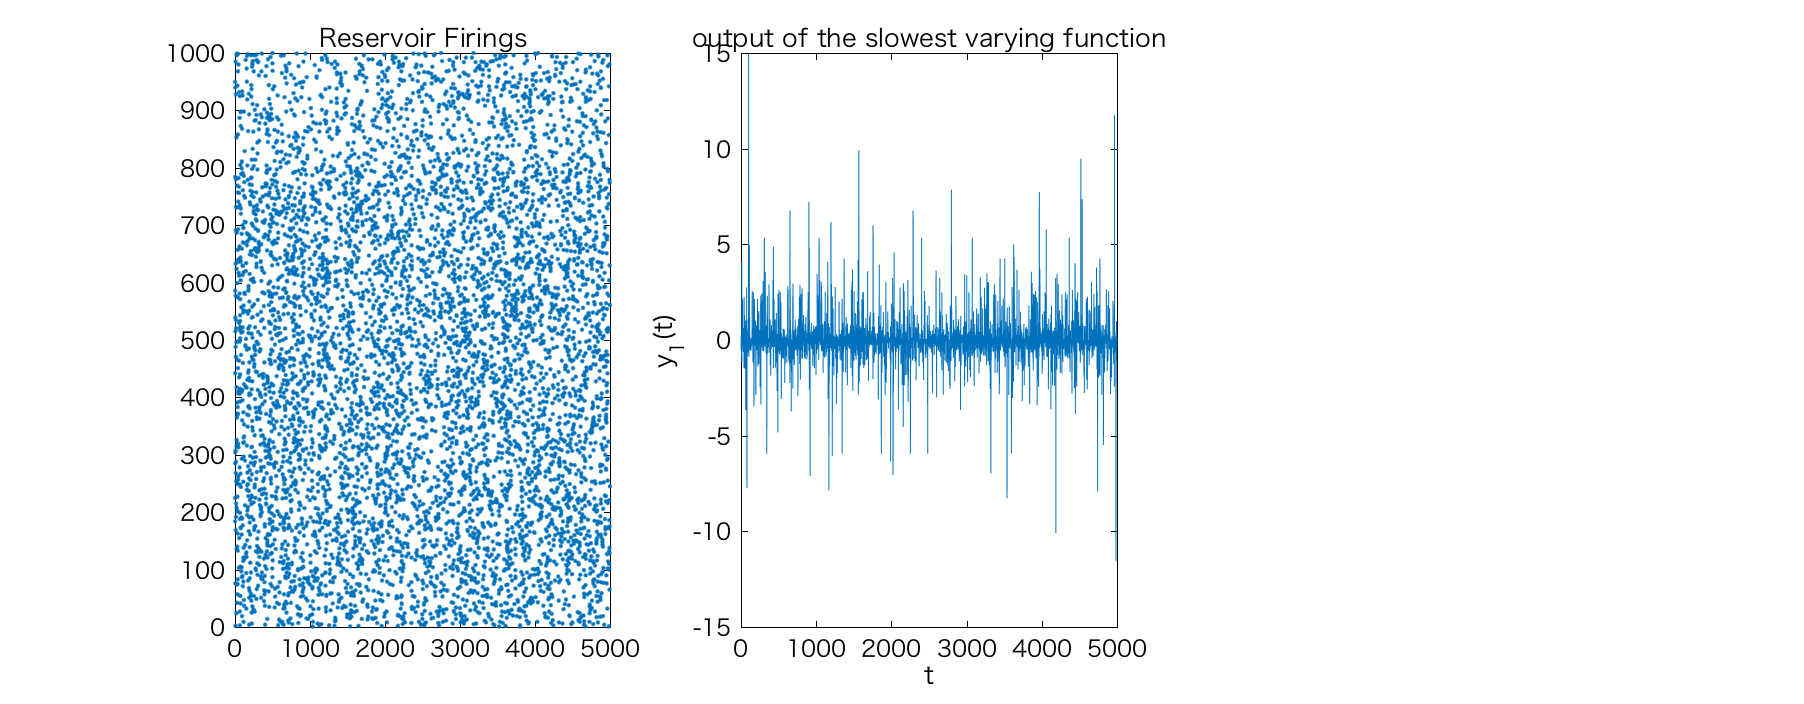
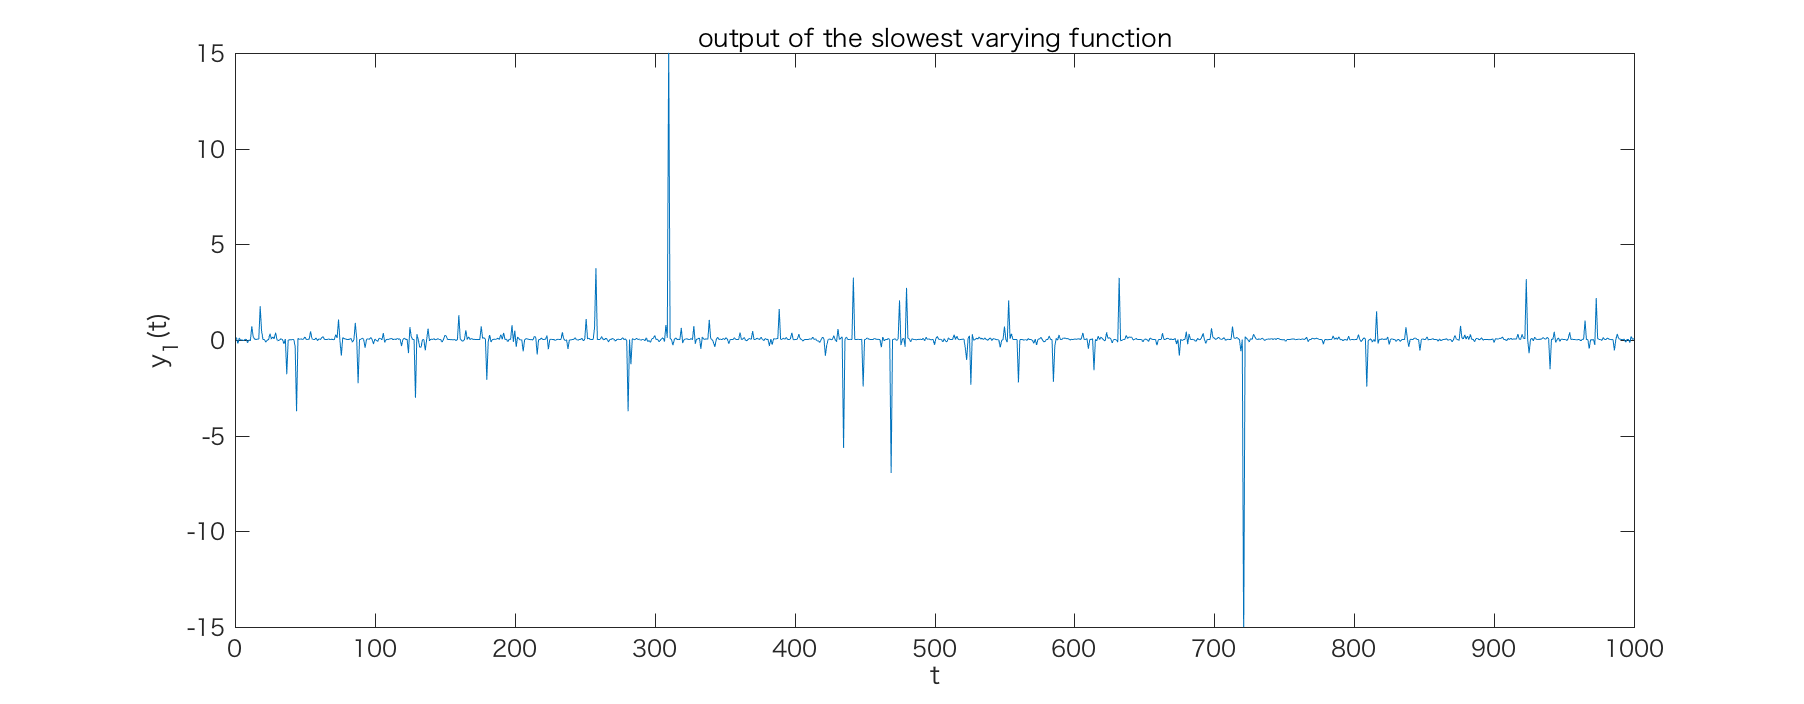
create firingsに置いて過去のoutputを消すように変更 nofeedbackでsfaの図の表示方法を変更xlim[0.1000]

diff --git a/nofeedback/sfa/script_sfa.m b/nofeedback/sfa/script_sfa.m
@@ -1,8 +1,8 @@
 %initialization
 global d k yoke STDP outdir p dim 
+!rm -r output/
 
-
-d=1;    %Iterate number
+d=5;    %Iterate number
 yoke=['NY'];   %Yoked or NY
 STDP=['STDP'];
 id=['170222'];
@@ -10,6 +10,8 @@ feedbacktime=1;
 iterate=2000;
 speinplate=0.5;
 debug=1;
+simutime=10000;   %iterate of simulation when create plot
+
 
 %Create mean file
 outdir=['output'];
@@ -30,8 +32,8 @@ for p=[0.05]
   mean_kiyo=[];
    for k=1:d
         %conduct sfa
-           display(['../firing_data/','p=',num2str(p),'_',yoke,'_',STDP,'/p=',num2str(p),'_',yoke,'_',STDP,'babble_daspnet_firings_',num2str(k),'_',id,'_',num2str(iterate),'_reinforce_100_4_',yoke,'_1_',num2str(feedbacktime),'_',num2str(p),'_',num2str(speinplate),'_',STDP,'_.txt']);
-           [y]=sfa_normal(['../firing_data/','p=',num2str(p),'_',yoke,'_',STDP,'/p=',num2str(p),'_',yoke,'_',STDP,'babble_daspnet_firings_',num2str(k),'_',id,'_',num2str(iterate),'_reinforce_100_4_',yoke,'_1_',num2str(feedbacktime),'_',num2str(p),'_',num2str(speinplate),'_',STDP,'_.txt']);
+           display(['../firing_data/','p=',num2str(p),'_',yoke,'_',STDP,'/p=',num2str(p),'_',yoke,'_',STDP,'babble_daspnet_firings_',num2str(k),'_',id,'_',num2str(iterate),'_reinforce_100_4_',yoke,'_1_',num2str(feedbacktime),'_',num2str(p),'_',num2str(speinplate),'_',STDP,'_',num2str(simutime),'.txt']);
+           [y]=sfa_normal(['../firing_data/','p=',num2str(p),'_',yoke,'_',STDP,'/p=',num2str(p),'_',yoke,'_',STDP,'babble_daspnet_firings_',num2str(k),'_',id,'_',num2str(iterate),'_reinforce_100_4_',yoke,'_1_',num2str(feedbacktime),'_',num2str(p),'_',num2str(speinplate),'_',STDP,'_',num2str(simutime),'.txt']);
            
    
    end
@@ -58,8 +60,8 @@ for p=[0.05]
   mean_kiyo=[];
    for k=1:d
         %conduct sfa
-           display(['../firing_data/','p=',num2str(p),'_',yoke,'_',STDP,'/p=',num2str(p),'_',yoke,'_',STDP,'babble_daspnet_firings_',num2str(k),'_',id,'_',num2str(iterate),'_reinforce_100_4_',yoke,'_1_',num2str(feedbacktime),'_',num2str(p),'_',num2str(speinplate),'_',STDP,'_.txt']);
-           [y]=sfa_normal(['../firing_data/','p=',num2str(p),'_',yoke,'_',STDP,'/p=',num2str(p),'_',yoke,'_',STDP,'babble_daspnet_firings_',num2str(k),'_',id,'_',num2str(iterate),'_reinforce_100_4_',yoke,'_1_',num2str(feedbacktime),'_',num2str(p),'_',num2str(speinplate),'_',STDP,'_.txt']);
+           display(['../firing_data/','p=',num2str(p),'_',yoke,'_',STDP,'/p=',num2str(p),'_',yoke,'_',STDP,'babble_daspnet_firings_',num2str(k),'_',id,'_',num2str(iterate),'_reinforce_100_4_',yoke,'_1_',num2str(feedbacktime),'_',num2str(p),'_',num2str(speinplate),'_',STDP,'_',num2str(simutime),'.txt']);
+           [y]=sfa_normal(['../firing_data/','p=',num2str(p),'_',yoke,'_',STDP,'/p=',num2str(p),'_',yoke,'_',STDP,'babble_daspnet_firings_',num2str(k),'_',id,'_',num2str(iterate),'_reinforce_100_4_',yoke,'_1_',num2str(feedbacktime),'_',num2str(p),'_',num2str(speinplate),'_',STDP,'_',num2str(simutime),'.txt']);
            
    
    end
@@ -84,8 +86,8 @@ for p=[0.05]
   mean_kiyo=[];
    for k=1:d
         %conduct sfa
-           display(['../firing_data/','p=',num2str(p),'_',yoke,'_',STDP,'/p=',num2str(p),'_',yoke,'_',STDP,'babble_daspnet_firings_',num2str(k),'_',id,'_',num2str(iterate),'_reinforce_100_4_',yoke,'_1_',num2str(feedbacktime),'_',num2str(p),'_',num2str(speinplate),'_',STDP,'_.txt']);
-           [y]=sfa_normal(['../firing_data/','p=',num2str(p),'_',yoke,'_',STDP,'/p=',num2str(p),'_',yoke,'_',STDP,'babble_daspnet_firings_',num2str(k),'_',id,'_',num2str(iterate),'_reinforce_100_4_',yoke,'_1_',num2str(feedbacktime),'_',num2str(p),'_',num2str(speinplate),'_',STDP,'_.txt']);
+           display(['../firing_data/','p=',num2str(p),'_',yoke,'_',STDP,'/p=',num2str(p),'_',yoke,'_',STDP,'babble_daspnet_firings_',num2str(k),'_',id,'_',num2str(iterate),'_reinforce_100_4_',yoke,'_1_',num2str(feedbacktime),'_',num2str(p),'_',num2str(speinplate),'_',STDP,'_',num2str(simutime),'.txt']);
+           [y]=sfa_normal(['../firing_data/','p=',num2str(p),'_',yoke,'_',STDP,'/p=',num2str(p),'_',yoke,'_',STDP,'babble_daspnet_firings_',num2str(k),'_',id,'_',num2str(iterate),'_reinforce_100_4_',yoke,'_1_',num2str(feedbacktime),'_',num2str(p),'_',num2str(speinplate),'_',STDP,'_',num2str(simutime),'.txt']);
            
    
    end
@@ -111,8 +113,8 @@ for p=[0.05]
   mean_kiyo=[];
    for k=1:d
         %conduct sfa
-           display(['../firing_data/','p=',num2str(p),'_',yoke,'_',STDP,'/p=',num2str(p),'_',yoke,'_',STDP,'babble_daspnet_firings_',num2str(k),'_',id,'_',num2str(iterate),'_reinforce_100_4_',yoke,'_1_',num2str(feedbacktime),'_',num2str(p),'_',num2str(speinplate),'_',STDP,'_.txt']);
-           [y]=sfa_normal(['../firing_data/','p=',num2str(p),'_',yoke,'_',STDP,'/p=',num2str(p),'_',yoke,'_',STDP,'babble_daspnet_firings_',num2str(k),'_',id,'_',num2str(iterate),'_reinforce_100_4_',yoke,'_1_',num2str(feedbacktime),'_',num2str(p),'_',num2str(speinplate),'_',STDP,'_.txt']);
+           display(['../firing_data/','p=',num2str(p),'_',yoke,'_',STDP,'/p=',num2str(p),'_',yoke,'_',STDP,'babble_daspnet_firings_',num2str(k),'_',id,'_',num2str(iterate),'_reinforce_100_4_',yoke,'_1_',num2str(feedbacktime),'_',num2str(p),'_',num2str(speinplate),'_',STDP,'_',num2str(simutime),'.txt']);
+           [y]=sfa_normal(['../firing_data/','p=',num2str(p),'_',yoke,'_',STDP,'/p=',num2str(p),'_',yoke,'_',STDP,'babble_daspnet_firings_',num2str(k),'_',id,'_',num2str(iterate),'_reinforce_100_4_',yoke,'_1_',num2str(feedbacktime),'_',num2str(p),'_',num2str(speinplate),'_',STDP,'_',num2str(simutime),'.txt']);
            
    
    end
@@ -123,5 +125,8 @@ for p=[0.05]
  close all
 end
 %%%%%%%%%%%%%%%%%%%%%%%%%%%%%%%
+
+!mkdir output/png
+!find ./output/ -maxdepth 4 -name '*.png' | xargs -J % cp % ./output/png/
 
 

diff --git a/nofeedback/sfa/sfa_normal.m b/nofeedback/sfa/sfa_normal.m
@@ -42,10 +42,10 @@ Firings=Firings.'; %invert to caliculate
 
 % plot the input signal
 
-subplot(1,3,1)
-plot(firings(:,2),firings(:,3),'.'); % Plot all the neurons'' spikes
-title('Reservoir Firings', 'fontweight','bold');
-axis([0 5000 0 1000]);
+%subplot(1,3,1)
+%plot(firings(:,2),firings(:,3),'.'); % Plot all the neurons'' spikes
+%title('Reservoir Firings', 'fontweight','bold');
+%axis([0 5000 0 1000]);
 
 
 %%%%%%%%%%%%%%%%%%%%%%%%%%%%%%%%%%%%%%
@@ -70,9 +70,9 @@ y = sfa_execute(hdl, Firings);
 % [y, hdl] = sfa2(x);
 
 % plot the output of the slowest varying function
-subplot(1,3,2); 
+%subplot(1,3,2); 
 fig101=plot(y(:,1));
-xlim([0 5000])
+xlim([0 1000])
 ylim([-15 15])
 %set(gca, 'Xlim', [0,2*pi], 'PlotBoxAspectRatio', [1,1,1])
 title('output of the slowest varying function');

diff --git a/nofeedback/create_firingdate/script.m b/nofeedback/create_firingdate/script.m
@@ -1,4 +1,6 @@
 %initialization
+!rm -r ../firing_data
+
 d=5;    %Iterate number of simulation
 yoked=['NY'];   %Yoked or NY
 stdp=['STDP'];
